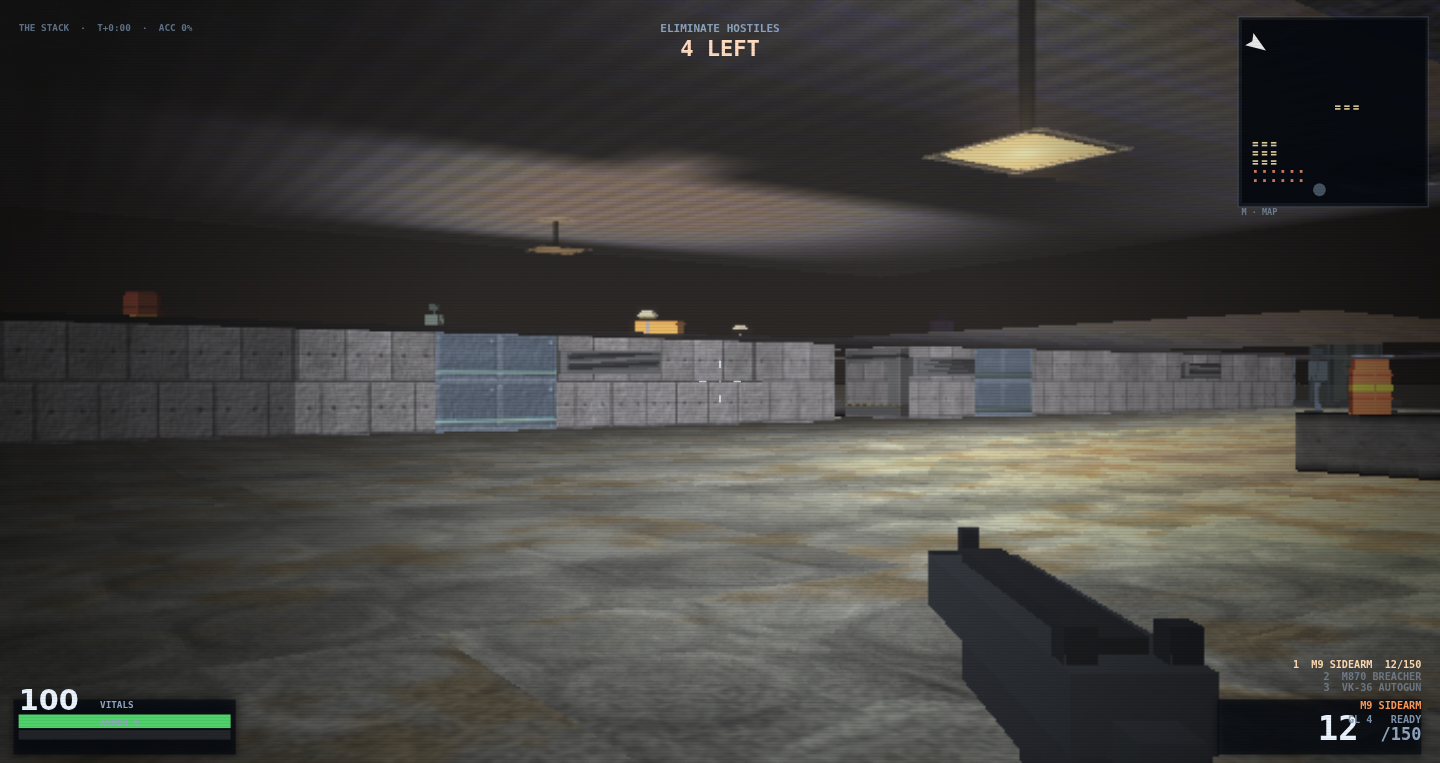
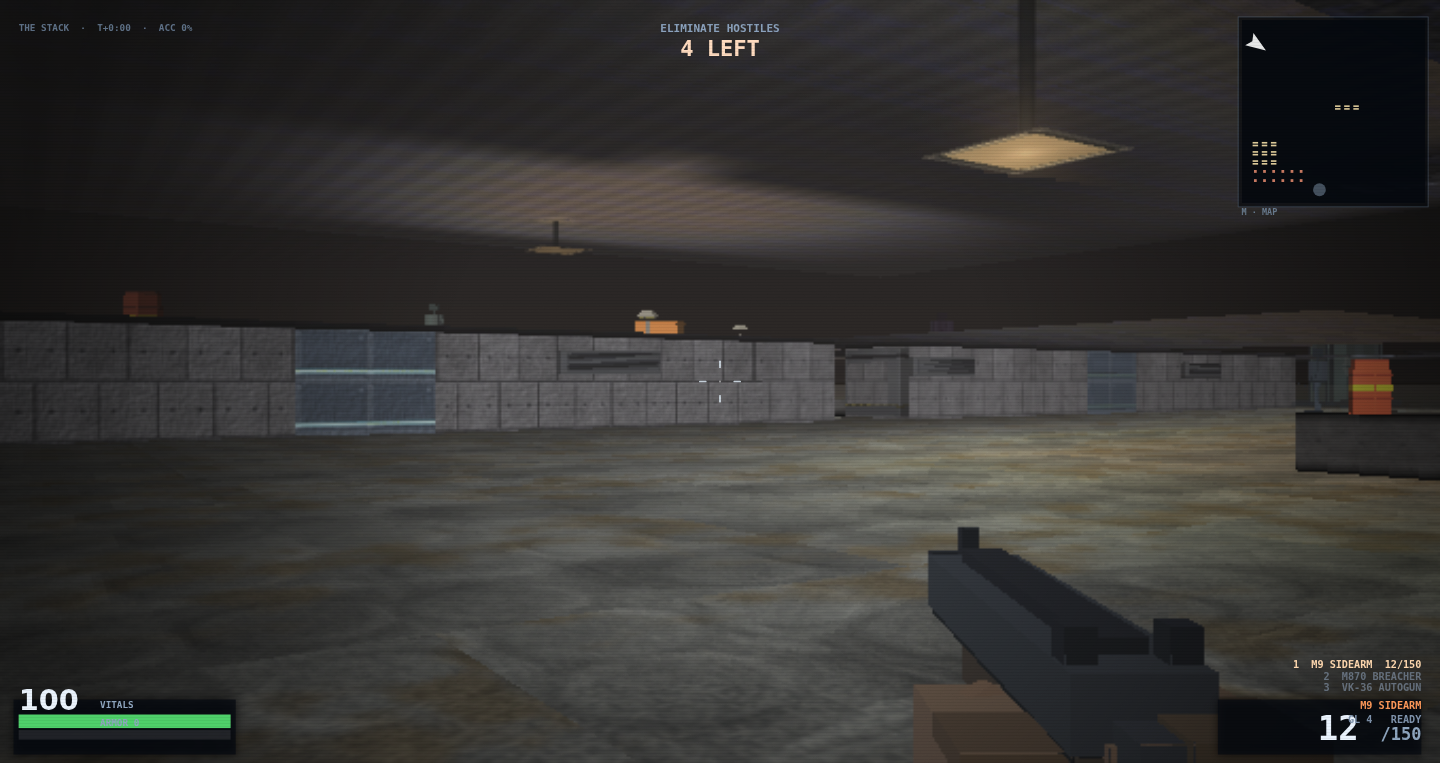
docs: THE STACK's frame is the build that ships (#431)
The README's picture of the authored two-storey level was drawn at 22ec109. Since
that build, wall and light work landed and this room's picture moved with them, so
the frame next to its caption was no longer what the deployed page draws.

Re-taken from the deployed Pages build of main (015c79b) by the provenance plan's
own route, with all twelve served blobs md5-compared against that tree before the
shutter, so the row names the build that drew the pixels rather than a checkout.
The frame is a step dimmer than the one it replaces - mean 65.09 -> 52.33, deck
third 75.2 -> 58.7, vault third 45.6 -> 39.2 - and the blockwork wall that crosses
the middle of it now reads as blockwork at every distance, not only where a lamp
grazes it. Geometry the caption quotes was re-read at the shutter: own ceiling
1.00 over the seat, the atrium's ceiling solving at 4.00 over floor 0.00 seven
cells along the heading, and DEV.ray stopping on a WT.SLAB face spanning 0.00-1.00
at 8.55 m.

This row is also the first to record SND.ac.sampleRate (44100) where the other
seven recorded no audio device, so it binds a cross-machine route and the
device-scoped census drops from eight deals to seven. No threshold, gate, exit
path or tools/refs.lock entry changed; no js/ file was touched.

diff --git a/README.md b/README.md
@@ -51,14 +51,15 @@ a byte claim written here is false by the next merge (#395). What *changed* betw
 in the PR that moved it, not here.
 
 `node tools/recap.js check` decodes the eight PNGs and fails if any number below disagrees with the
-bytes, so a caption cannot drift from its frame. The eight frames decode to **63.94 / 44.07 / 63.91 / 55.89 / 60.94 / 65.09 / 72.45 / 72.08** mean luma
+bytes, so a caption cannot drift from its frame. The eight frames decode to **63.94 / 44.07 / 63.91 / 55.89 / 60.94 / 52.33 / 72.45 / 72.08** mean luma
 (`0.2126 R + 0.7152 G + 0.0722 B`, the rule `DEV.lum` uses), in the order they appear below. A dark
 row below means a row whose own mean luma is under 24 — the threshold the tool measures at, whatever
 number a sentence labels.
 
-All eight were re-taken in one pass off the deployed page at build `22ec109`, with all twelve served blobs
-md5-compared against that tree before the shutter, so every frame below is the picture the page beside it
-draws. What they gained is two shipped prop changes the older frames predated: a prop's whole light, ambient
+Seven were re-taken in one pass off the deployed page at build `22ec109` and one — **THE STACK** — at `015c79b`,
+after wall and light work landed that frame had not caught up with; each pass proved its build off the wire by
+md5-comparing all twelve served blobs against that tree before the shutter, so every frame below is the picture
+the page beside it draws at the build its row names. What they gained is two shipped prop changes the older frames predated: a prop's whole light, ambient
 included, now carries the face-orientation term, so every crate, barrel and body has a lit side and a shaded
 one (#371, #476), and painted crate and barrel faces sit 12 % darker so a prop stops being the loudest surface
 in a dim room (#491). The floor within a couple of metres also lost the hard texel edges those frames showed
@@ -133,26 +134,31 @@ mean of 68.50 in a darker deal, and the rewrite is the one level0-facing-wall do
 ![the authored two-storey level from its own spawn seat](docs/screens/level3-stack.png)
 
 **THE STACK**, the hand-authored level, from its spawn seat: (1.5, 2.5) on the datum, heading 0.60, 4
-hostiles left, and **0 of 763 rows average below luminance 24** (mean 65.09, thirds 45.6 / 74.5 / 75.2; at the
-tool's other bar, 48 rows under 34, longest run 44 from row 260). The seat's own cell carries a
+hostiles left, and **0 of 763 rows average below luminance 24** (mean 52.33, thirds 39.2 / 59.1 / 58.7; at the
+tool's other bar, 134 rows under 34, longest run 50 from row 56). The seat's own cell carries a
 ceiling at **1.00** — you are under the slab — and seven cells along the heading the plan opens into an
-atrium whose ceiling solves at **4.00** over `floor 0.00`. What crosses the middle of the frame is the
-wall of the room the seat opens into, with the atrium's lit floor visible above its top edge: a surface
+atrium whose ceiling solves at **4.00** over `floor 0.00`; `DEV.ray` along the heading stops 8.55 m out on a
+face carrying `mat 10` = `WT.SLAB` drawn over the span `[0.00, 1.00]`. So what crosses the middle of the frame
+is the wall of the room the seat opens into, with the atrium's lit floor visible above its top edge: a surface
 you cannot shoot at, over a wall you can. That edge is carried by the surfaces themselves rather than by
 the light on them — rectified ashlar blockwork with incised joints and tie holes over flagstone and moss
 — so a lip reads as a lip at any distance, in bright light or dim, and not only where a lamp happens to
-graze it (#428). The vault is still the darkest large surface in the frame: its band runs 45.6 against
-the deck's 75.2, and this is the first frame of this seat where that gap is the *surfaces* talking — the
-blockwork and the flagstone are different materials, and the deck no longer out-lights the roof over it
-because the finale's floor stops burning past the picture it is lit for (#369). The stepped glyphs on
-the minimap are the staircase that gets you up there. Hand-authoring removes the seed excuse — this plan
-is written cell by cell over a 20 × 20 grid — and it also shows what is still missing:
+graze it (#428). You can read that in the frame: the blocks and their joints are legible out to the far end of
+the wall, and the deck under them is a different stone rather than the same one lit differently. The stepped
+glyphs on the minimap are the staircase that gets you up there. Hand-authoring removes the seed excuse — this
+plan is written cell by cell over a 20 × 20 grid — and it also shows what is still missing:
 `tools/view.js volume` reports this seat's headroom as `1.00..1.00`, so the level is genuinely two-storey
-in `MAP.fz` and still reads as a low room with a bright slit in it (#353). Against the frame this one
-replaces the move is in the props and the near field: mean 66.43 → 65.09. The crate at the right of frame is no
-longer a near-white card brighter than its own room — #479 brought it to the room's value and #476 gave its
-side faces a shaded side — and the deck under the crosshair is the near field #494 re-filtered, which no longer
-shows the hard texel edges those bytes carried.
+in `MAP.fz` and still reads as a low room with a bright slit in it (#353). The vault is still the darkest large
+surface — its band runs 39.2 against the deck's 58.7 — but the gap came down from 29.6 points to 19.5 against
+the frame this one replaces, because the whole room reads a step dimmer: mean 65.09 → 52.33, deck third
+75.2 → 58.7, vault third 45.6 → 39.2, and the dark block moved up into the vault (48 rows under 34, a 44-row
+run from row 260, became 134 rows with a 50-row run from row 56). Each tree's own headless harness renders this
+level's dealt frame at mean 118.1 on the build the replaced row named and 89.8 on this one, so most of the move
+is shading rather than geometry. Wall and light work landed in between — a ceiling that averages its own
+footprint into its material's mean (#19), the line where a room stops and its roof starts (#369), a cap on how
+much luma a lamp's colour may add (#509), on top of the ashlar family these faces already wore (#428) — and
+which of them carries the 12.8 points is not settled here; what is settled is that these bytes show the room
+that ships.
 
 ![ABATOIR CORE from its arrival seat: the slab over the room fills the top of the frame](docs/screens/level2-abatoir.png)
 
